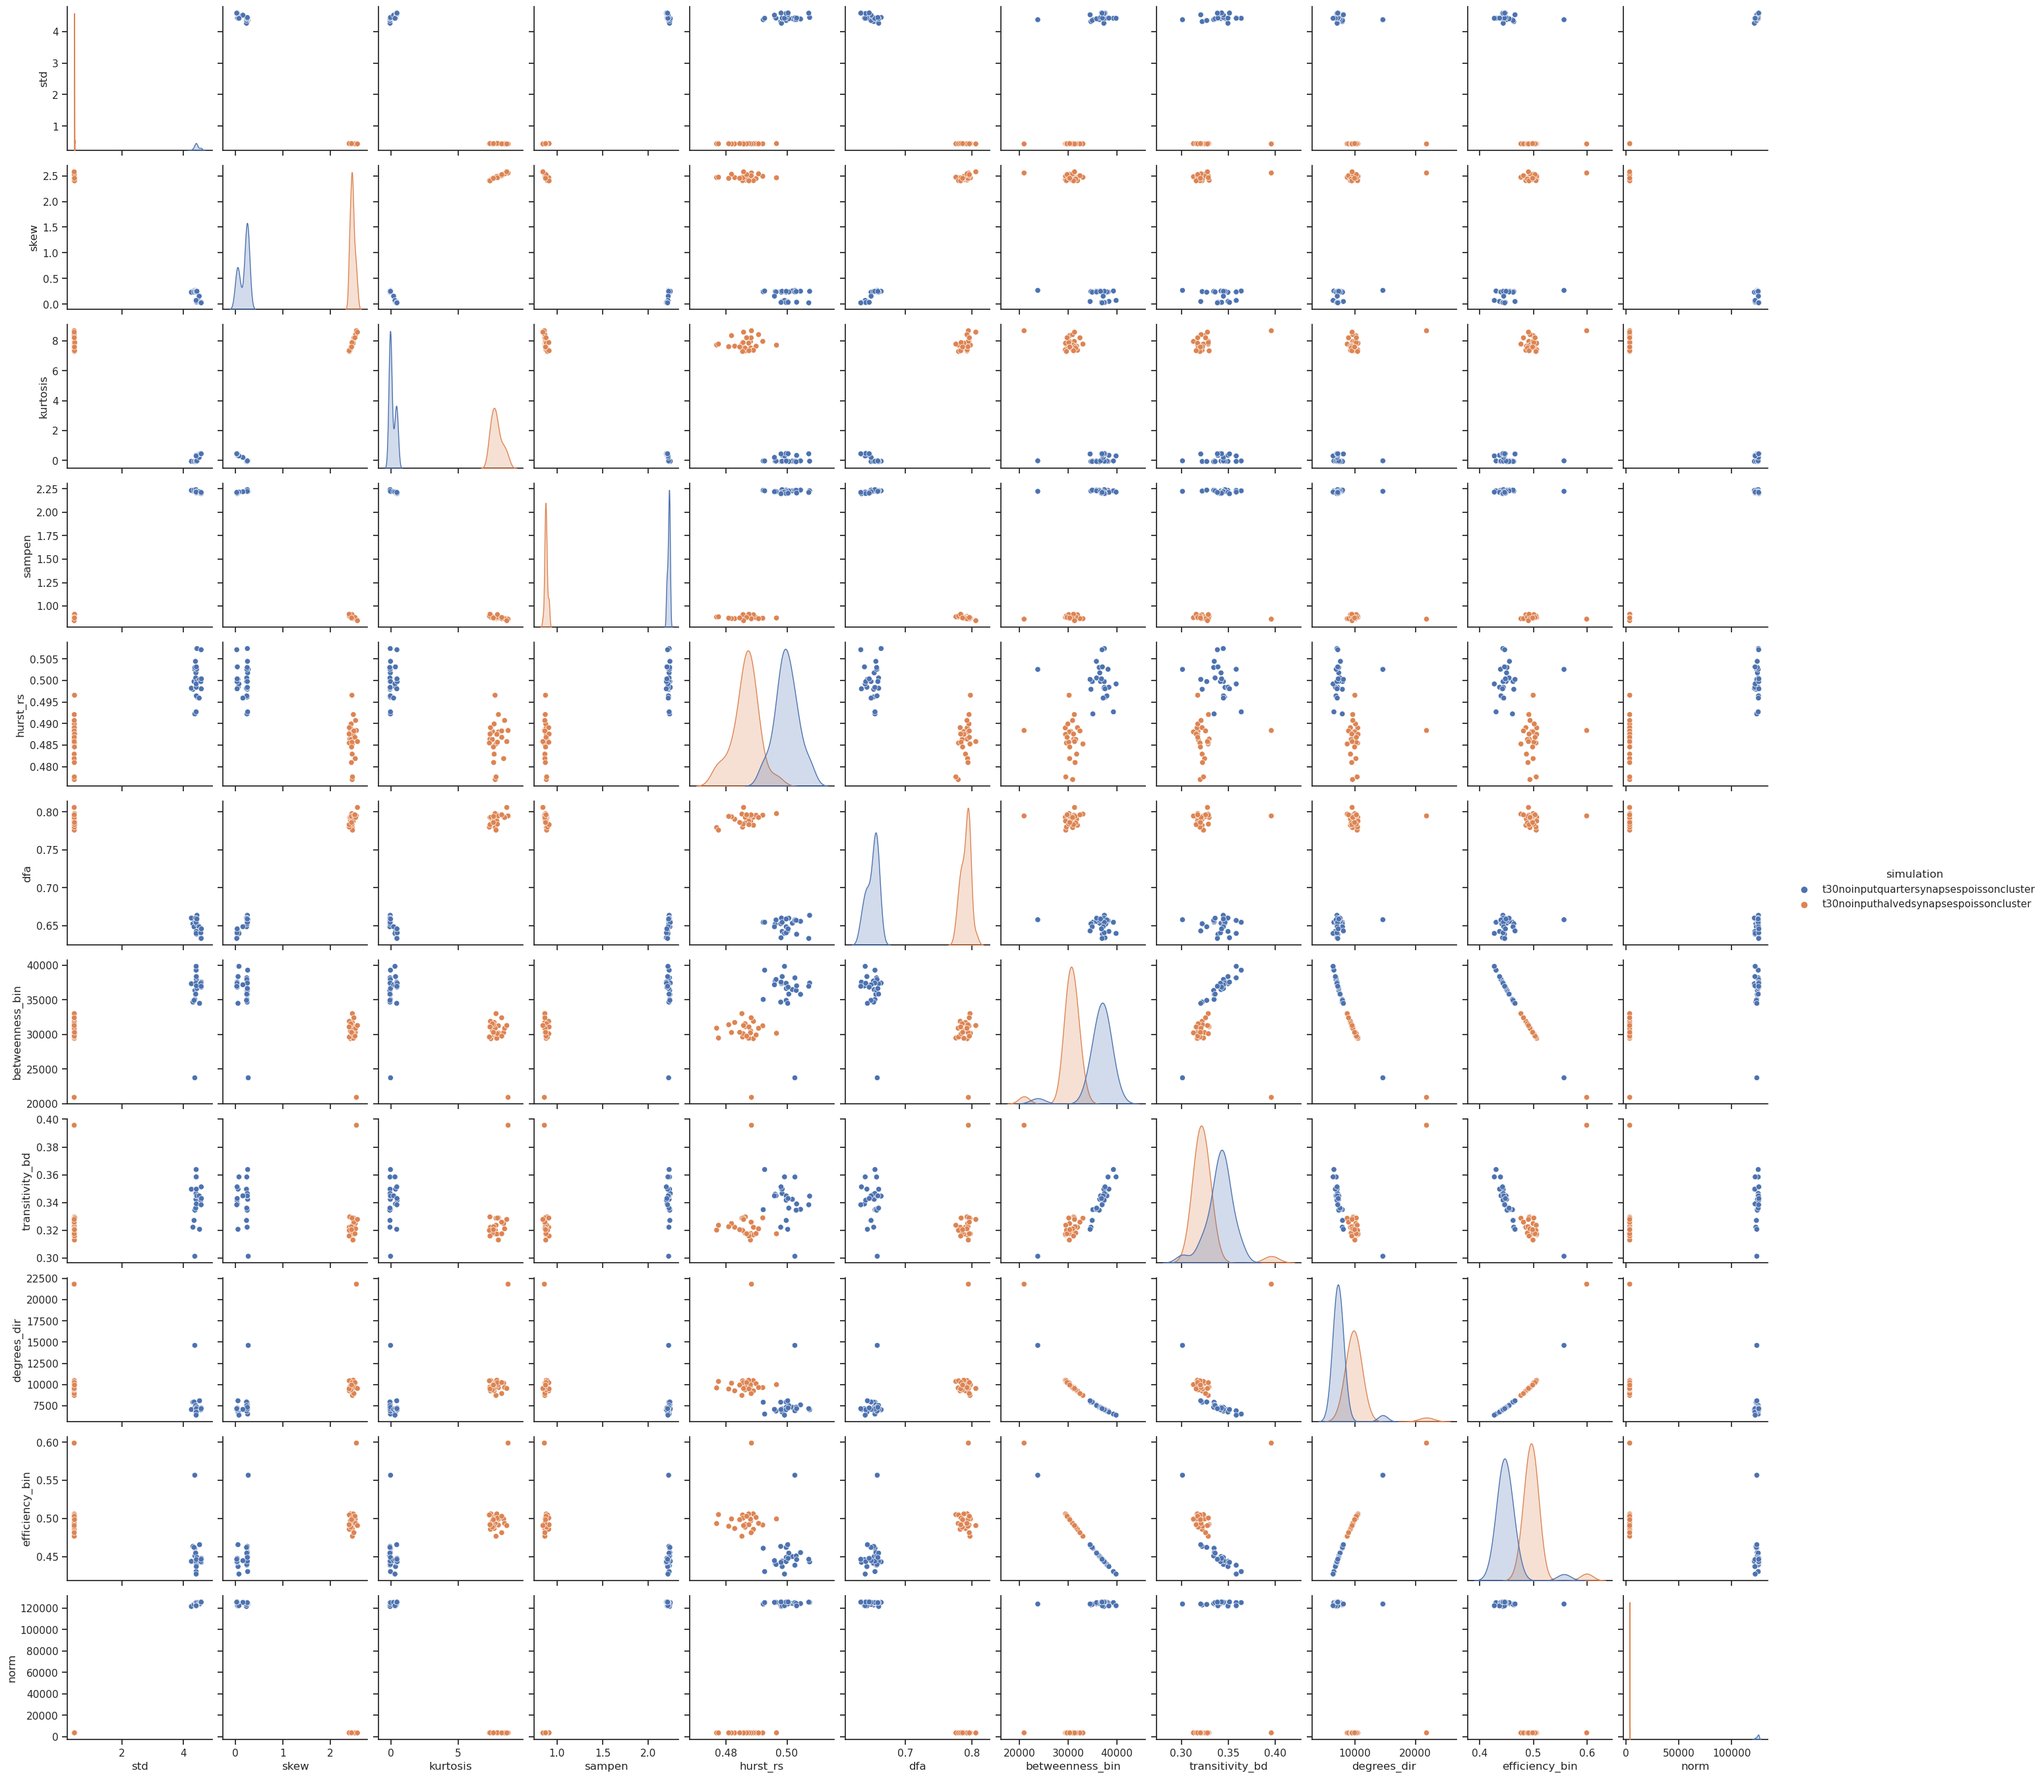
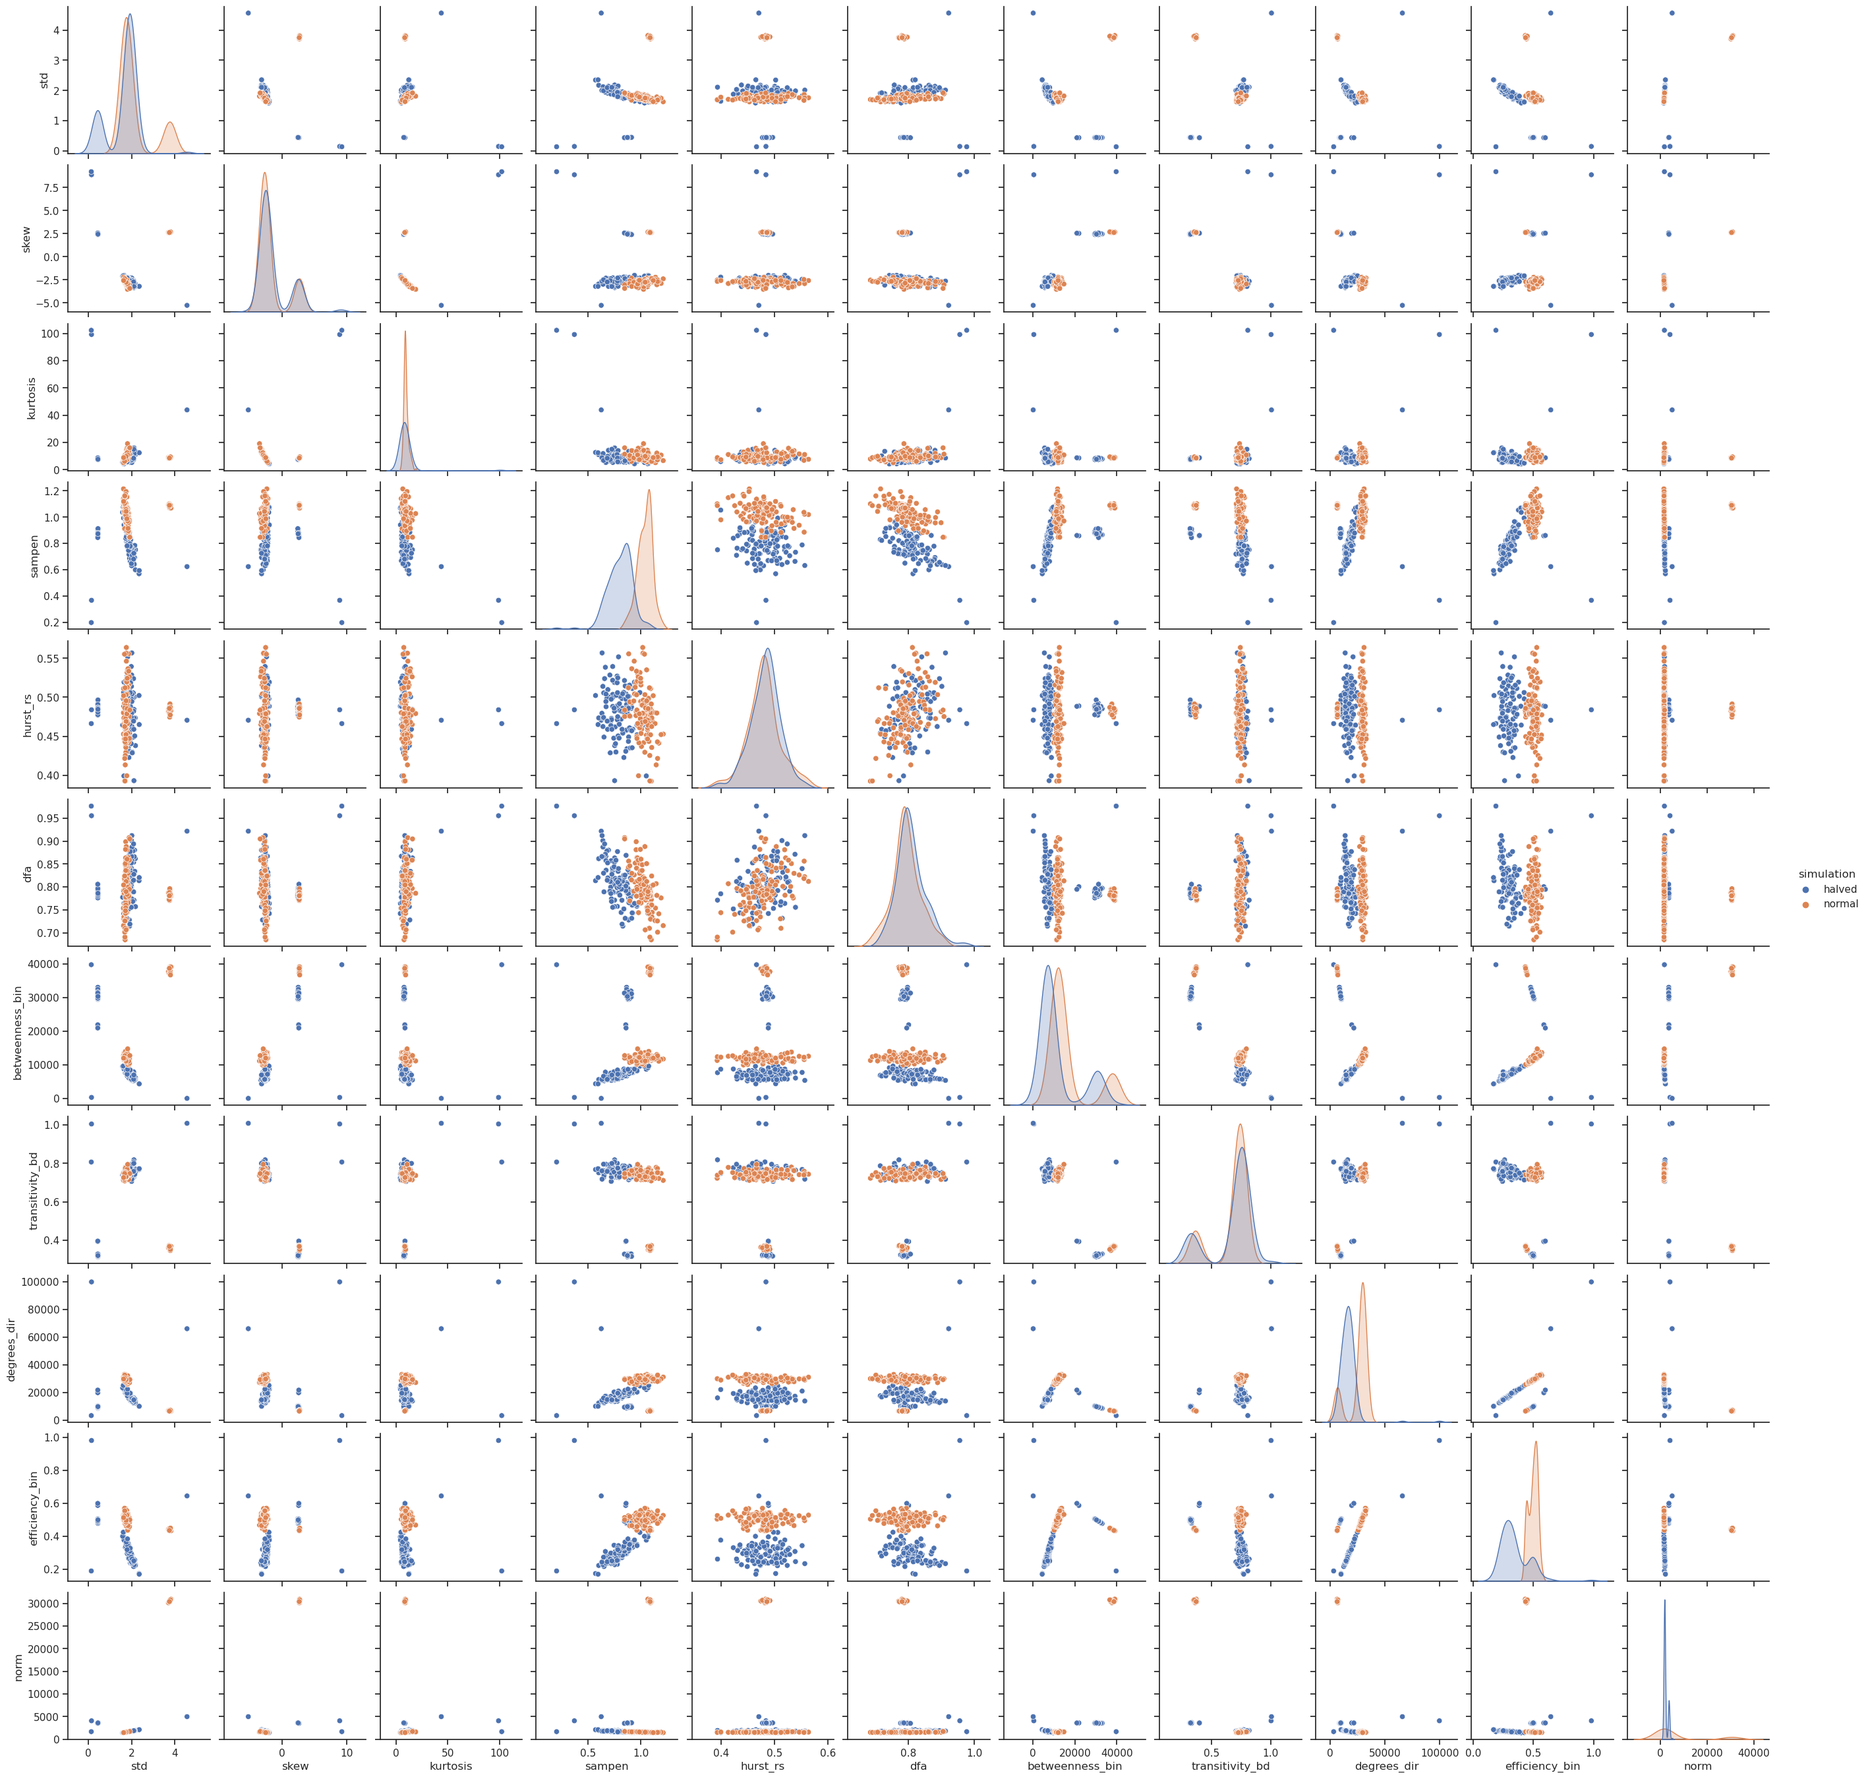
Added correct save in feature comparison

diff --git a/src/beegenn/plots/compare_features.py b/src/beegenn/plots/compare_features.py
@@ -24,18 +24,20 @@ def get_dataframe(file_list):
         res = res.drop('t_start', axis = 1)
         res = res.drop('t_end', axis = 1)
         res = res.drop('run', axis = 1)
+        res['simulation'] = res['simulation'].str.replace('t30noinput', '')
+        res['simulation'] = res['simulation'].str.replace('synapsespoissoncluster', '')
+        res['simulation'] = res['simulation'].str.replace('poissoncluster', 'normal')
     return res
 
-def compare_two_conditions(first, second):
-    print(first)
-    print(second)
+def compare_two_conditions(first, second, root_dir):
+    print(first, second)
     sns.set(style = 'ticks')
     sns.set_palette('deep')
     fig = sns.pairplot(pd.concat([first, second], ignore_index = True), hue = 'simulation')
-    fig.savefig('compare.png')
-    plt.show()
-    plt.cla()
-    plt.clf()
+    out_dir = root_dir.parent / 'comparing_features'
+    out_dir.mkdir(parents = True, exist_ok = True)
+    print(str(out_dir / f'{first.simulation[0]}_{second.simulation[0]}.png'))
+    fig.savefig(str(out_dir / f'{first.simulation[0]}_{second.simulation[0]}.png'))
 
 if __name__ == "__main__":
     feature_dir = Path(sys.argv[1])
@@ -47,4 +49,4 @@ if __name__ == "__main__":
     for first in conditions:
         for second in conditions:
             if first != second:
-                compare_two_conditions(conditions[first], conditions[second])
+                compare_two_conditions(conditions[first], conditions[second], feature_dir)
